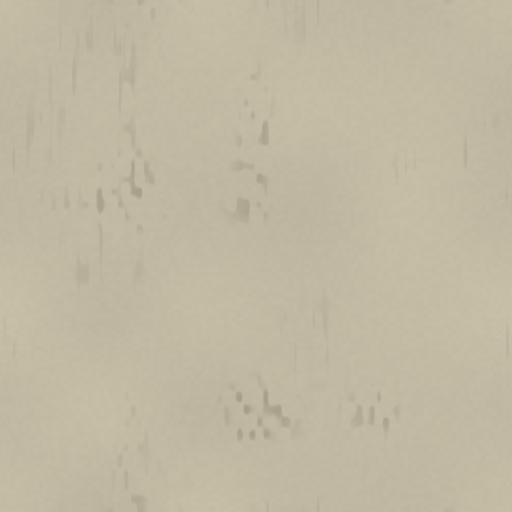
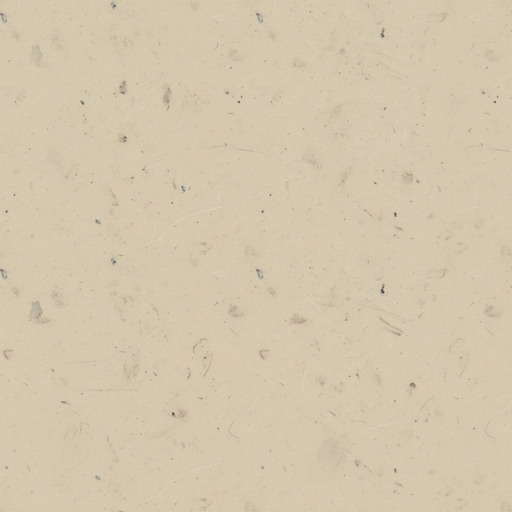
replace the worn ivory capsule enamel pattern with a grok chipped enamel source

diff --git a/sources/interior-kinds/INDEX.md b/sources/interior-kinds/INDEX.md
@@ -2,7 +2,7 @@
 
 Finishes for the reference-led interior kinds: the E1 luxury apartment, the B3 apartment trims, the R1 office doorway and the poor-building C1/C7 capsules and C4 public restroom. Geometry owns panel joints, slab joints, fixings, reveals, grille outlines and screen bezels; scene light records own the illumination.
 
-Photographic sources are Grok Imagine (`image_gen`) generations with their [prompts](prompts/). The three tiled sources were prepared into wrapping tiles before import: a large-radius tonal flatten removed baked light drift, then two separable offset cross-fades (x then y, 22 % edge band) made both axes wrap. The floor source was darkened to 88 % and the portal stone desaturated to 60 %. The grille face is drawn in code as a regular diamond lattice.
+Photographic sources are Grok Imagine (`image_gen`) generations with their [prompts](prompts/). The four tiled sources were prepared into wrapping tiles before import: a large-radius tonal flatten removed baked light drift, then two separable offset cross-fades (x then y, 22 % edge band) made both axes wrap. The floor source was darkened to 88 % and the portal stone desaturated to 60 %. The grille face is drawn in code as a regular diamond lattice.
 
 | Key under `cyberpunk/` | Variant | Mapping | Source | Surface |
 | --- | --- | --- | --- | --- |
@@ -18,7 +18,7 @@ Photographic sources are Grok Imagine (`image_gen`) generations with their [prom
 | `light-fixture/high_rich` (existing key) | `e1-cyan` | 1 m, 128² | flat | Cyan reveal lens, `#12c3ff` basecolor and color-mask emission. |
 | `b3-trim/rich` | `gold` | 0.5 m, 512² | `brushed-metal` pattern | Brushed gold plinth and counter trim, brushing along x, metallic 1, roughness 0.3. |
 | `r1-portal/rich` | `stone` | 2 m, 1024² | [r1-portal-stone.png](r1-portal-stone.png) | Honed dark graphite stone, roughness 0.38 after polish. |
-| `interior-capsule-enamel/poor` | `worn-ivory` | 1 m, 512² | `composite` pattern | Ivory enamel with scattered grime, scuffs and small chips, roughness 0.55. |
+| `interior-capsule-enamel/poor` | `worn-ivory` | 1 m, 512² | [capsule-worn-ivory.png](capsule-worn-ivory.png) | Ivory satin enamel with a soft grime haze, fine scuffs and small chips showing a darker base, roughness 0.55. |
 | `c4-laminate/poor` | `stall` | 1 m, 1024² | [c4-stall-laminate.png](c4-stall-laminate.png) | Worn slate blue-grey laminate with hairline scratches and faint grime streaks, roughness 0.55. |
 
 Every tiled variant passes the native wrap gate. Exact faces fit once per receiving face; tiled variants repeat at `variant.tiling ?? entry.tiling`.
@@ -27,10 +27,10 @@ Every tiled variant passes the native wrap gate. Exact faces fit once per receiv
 npm run --silent pbrforge -- create batch/cyberpunk/interior-kinds/e1-finishes.json
 npm run --silent pbrforge -- create batch/cyberpunk/interior-kinds/e1-lens.json
 npm run --silent pbrforge -- create batch/cyberpunk/interior-kinds/b3-trim.json
-npm run --silent pbrforge -- create batch/cyberpunk/interior-kinds/capsule-poor.json
 npm run --silent pbrforge -- create batch/cyberpunk/interior-kinds/e1-floor.json --native
 npm run --silent pbrforge -- create batch/cyberpunk/interior-kinds/r1-portal.json --native
 npm run --silent pbrforge -- create batch/cyberpunk/interior-kinds/c4-laminate.json --native
+npm run --silent pbrforge -- create batch/cyberpunk/interior-kinds/capsule-poor.json --native
 npm run --silent pbrforge -- create batch/cyberpunk/interior-kinds/e1-plates.json --native
 npm run --silent pbrforge -- from-image batch/cyberpunk/interior-kinds/e1-grille.json
 npm run --silent pbrforge -- refinish batch/cyberpunk/interior-kinds/polish.json

diff --git a/sources/interior-kinds/prompts/capsule-worn-ivory.md b/sources/interior-kinds/prompts/capsule-worn-ivory.md
@@ -1,0 +1,1 @@
+Seamless tileable flat front-on photograph of an aged ivory enamel coating on a moulded capsule housing plate: warm ivory satin paint with a soft grey-brown grime haze, faint smudges, fine hairline scuffs and a few tiny chips showing a darker grey base, all scattered evenly across the whole frame, the pattern continues off every edge. Even diffuse lighting with no shadows, highlights or vignette. No large stains, text, stickers, screws, edges or joints.
